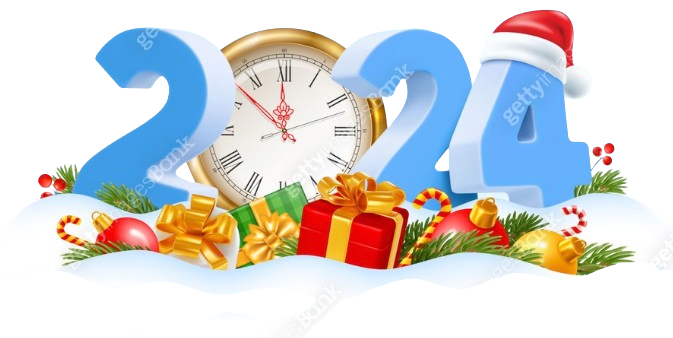
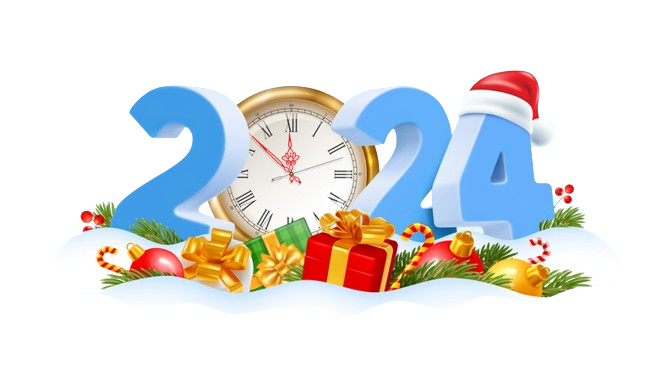
markup

diff --git a/src/App.tsx b/src/App.tsx
@@ -70,7 +70,7 @@ const TopSection = styled.div`
 `;
 const MainImg = styled.div`
   width: 100%;
-  max-width: 440px;
+  max-width: 560px;
   position: relative;
   margin: auto;
   overflow-x: hidden;
@@ -82,21 +82,24 @@ const Img = styled.img`
   margin-top: 20px;
 `;
 const rightSideAni = keyframes`
-  0% {top: 10px;}
-	100% {top: 15px;}
+  0% {top: 20px;}
+	100% {top: 25px;}
 `;
 const leftSideAni = keyframes`
   0% {bottom: 28px;}
 	100% {bottom: 23px;}
 `;
 const TitleDecoration = styled.div`
-  width: 45px;
-  height: 45px;
+  width: 90px;
+  height: 90px;
   position: absolute;
-  background-color: red;
+
+  img {
+    width: 100%;
+  }
 `;
 const RightDecoration = styled(TitleDecoration)`
-  right: 15px;
+  right: 25px;
   animation: ${rightSideAni} 0.7s linear 0s infinite alternate;
 `;
 const LeftDecoration = styled(TitleDecoration)`
@@ -108,10 +111,15 @@ const Wrap = styled.div`
 `;
 const Title = styled.div`
   background: url(/images/title.png) no-repeat top;
+  background-size: contain;
   position: relative;
   z-index: 100;
-  height: 100px;
+  min-width: 250px;
+  max-width: 500px;
+  min-height: 60px;
+  max-height: 160px;
   margin-top: -25px;
+  margin: -25px auto 0 auto;
 `;
 //#endregion
 
@@ -123,10 +131,10 @@ function App() {
         <MainImg>
           <Img src="/images/2024.png"/>
           <RightDecoration>
-            decoration
+            <img src="/images/snow-flake.png" />
           </RightDecoration>
           <LeftDecoration>
-            decoration
+            <img src="/images/snow-flake.png" />
           </LeftDecoration>
         </MainImg>
 
